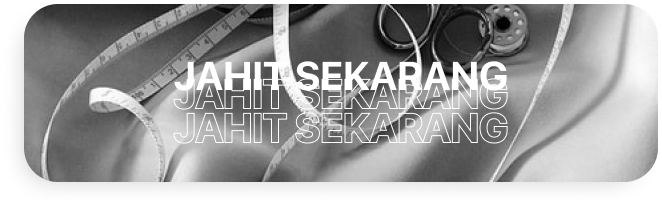
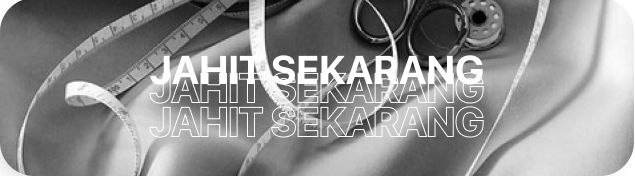
style: edit landing page

diff --git a/crowns/lib/screens/landing_page.dart b/crowns/lib/screens/landing_page.dart
@@ -19,6 +19,7 @@ class LandingPage extends StatelessWidget {
                 fit: BoxFit.cover,
               ),
             ),
+            SizedBox(height: 55),
             Column(
               mainAxisAlignment: MainAxisAlignment.start,
               children: [
@@ -37,6 +38,7 @@ class LandingPage extends StatelessWidget {
                           ),
                         ),
                       ),
+                      SizedBox(height: 2),
                       Align(
                         alignment: Alignment.centerLeft,
                         child: Text(
@@ -46,11 +48,14 @@ class LandingPage extends StatelessWidget {
                           ),
                         ),
                       ),
-                      Image.asset(ImageConstants.jahitSeakarangBanner),
+                      SizedBox(height: 8),
+                      Container(
+                          child:
+                              Image.asset(ImageConstants.jahitSeakarangBanner)),
                     ],
                   ),
                 ),
-
+                SizedBox(height: 42),
                 // Kreasi
                 Container(
                   child: Column(
@@ -68,6 +73,7 @@ class LandingPage extends StatelessWidget {
                           ),
                         ),
                       ),
+                      SizedBox(height: 2),
                       Container(
                         padding: EdgeInsets.only(left: 29, right: 29),
                         child: Align(
@@ -80,6 +86,7 @@ class LandingPage extends StatelessWidget {
                           ),
                         ),
                       ),
+                      SizedBox(height: 8),
                       SingleChildScrollView(
                         scrollDirection: Axis.horizontal,
                         child: Row(
@@ -103,11 +110,28 @@ class LandingPage extends StatelessWidget {
                                     )
                                   ],
                                 ),
-                                child: ClipRRect(
-                                  borderRadius: BorderRadius.circular(18.0),
-                                  child: Image.asset(
-                                    ImageConstants.kreasiDisplay1,
-                                  ),
+                                child: Stack(
+                                  children: [
+                                    ClipRRect(
+                                      borderRadius: BorderRadius.circular(18.0),
+                                      child: Image.asset(
+                                        ImageConstants.kreasiDisplay1,
+                                      ),
+                                    ),
+                                    Container(
+                                      padding: EdgeInsets.all(12),
+                                      child: Align(
+                                        alignment: Alignment.bottomLeft,
+                                        child: Text(
+                                          'Batik',
+                                          style: TextStyle(
+                                            color: Colors.white,
+                                            fontWeight: FontWeight.w600,
+                                          ),
+                                        ),
+                                      ),
+                                    )
+                                  ],
                                 ),
                               ),
                             ),
@@ -129,16 +153,33 @@ class LandingPage extends StatelessWidget {
                                     )
                                   ],
                                 ),
-                                child: ClipRRect(
-                                  borderRadius: BorderRadius.circular(18.0),
-                                  child: Image.asset(
-                                    ImageConstants.kreasiDisplay1,
-                                  ),
+                                child: Stack(
+                                  children: [
+                                    ClipRRect(
+                                      borderRadius: BorderRadius.circular(18.0),
+                                      child: Image.asset(
+                                        ImageConstants.kreasiDisplay1,
+                                      ),
+                                    ),
+                                    Container(
+                                      padding: EdgeInsets.all(12),
+                                      child: Align(
+                                        alignment: Alignment.bottomLeft,
+                                        child: Text(
+                                          'Batik',
+                                          style: TextStyle(
+                                            color: Colors.white,
+                                            fontWeight: FontWeight.w600,
+                                          ),
+                                        ),
+                                      ),
+                                    )
+                                  ],
                                 ),
                               ),
                             ),
 
-                            // kreasi 1
+                            // kreasi 3
                             Container(
                               margin: EdgeInsets.only(right: 29),
                               height: 120,
@@ -155,20 +196,38 @@ class LandingPage extends StatelessWidget {
                                     )
                                   ],
                                 ),
-                                child: ClipRRect(
-                                  borderRadius: BorderRadius.circular(18.0),
-                                  child: Image.asset(
-                                    ImageConstants.kreasiDisplay1,
-                                  ),
+                                child: Stack(
+                                  children: [
+                                    ClipRRect(
+                                      borderRadius: BorderRadius.circular(18.0),
+                                      child: Image.asset(
+                                        ImageConstants.kreasiDisplay1,
+                                      ),
+                                    ),
+                                    Container(
+                                      padding: EdgeInsets.all(12),
+                                      child: Align(
+                                        alignment: Alignment.bottomLeft,
+                                        child: Text(
+                                          'Batik',
+                                          style: TextStyle(
+                                            color: Colors.white,
+                                            fontWeight: FontWeight.w600,
+                                          ),
+                                        ),
+                                      ),
+                                    )
+                                  ],
                                 ),
                               ),
-                            )
+                            ),
                           ],
                         ),
                       )
                     ],
                   ),
                 ),
+                SizedBox(height: 24),
 
                 // Terdekat
                 Container(
@@ -183,6 +242,7 @@ class LandingPage extends StatelessWidget {
                               fontSize: 22, fontWeight: FontWeight.w600),
                         ),
                       ),
+                      SizedBox(height: 2),
                       Align(
                         alignment: Alignment.centerLeft,
                         child: Text(
@@ -190,6 +250,7 @@ class LandingPage extends StatelessWidget {
                           style: TextStyle(fontSize: 12),
                         ),
                       ),
+                      SizedBox(height: 8),
                       Align(
                         alignment: Alignment.centerLeft,
                         child: Container(
@@ -208,11 +269,54 @@ class LandingPage extends StatelessWidget {
                                 )
                               ],
                             ),
-                            child: ClipRRect(
-                              borderRadius: BorderRadius.circular(18.0),
-                              child: Image.asset(
-                                ImageConstants.terdekatDisplay1,
-                              ),
+                            child: Stack(
+                              children: [
+                                ClipRRect(
+                                  borderRadius: BorderRadius.circular(18.0),
+                                  child: Image.asset(
+                                    ImageConstants.terdekatDisplay1,
+                                  ),
+                                ),
+                                Container(
+                                  padding: EdgeInsets.all(12.0),
+                                  child: Column(
+                                    mainAxisAlignment:
+                                        MainAxisAlignment.spaceBetween,
+                                    children: [
+                                      Row(
+                                        mainAxisAlignment:
+                                            MainAxisAlignment.spaceBetween,
+                                        children: [
+                                          Text(
+                                            '120m',
+                                            style: TextStyle(
+                                              color: Colors.white,
+                                              fontWeight: FontWeight.w600,
+                                            ),
+                                          ),
+                                          Text(
+                                            '2H',
+                                            style: TextStyle(
+                                              color: Colors.white,
+                                              fontWeight: FontWeight.w600,
+                                            ),
+                                          ),
+                                        ],
+                                      ),
+                                      Align(
+                                        alignment: Alignment.center,
+                                        child: Text(
+                                          'Bu Tejo',
+                                          style: TextStyle(
+                                            color: Colors.white,
+                                            fontWeight: FontWeight.w600,
+                                          ),
+                                        ),
+                                      )
+                                    ],
+                                  ),
+                                )
+                              ],
                             ),
                           ),
                         ),
